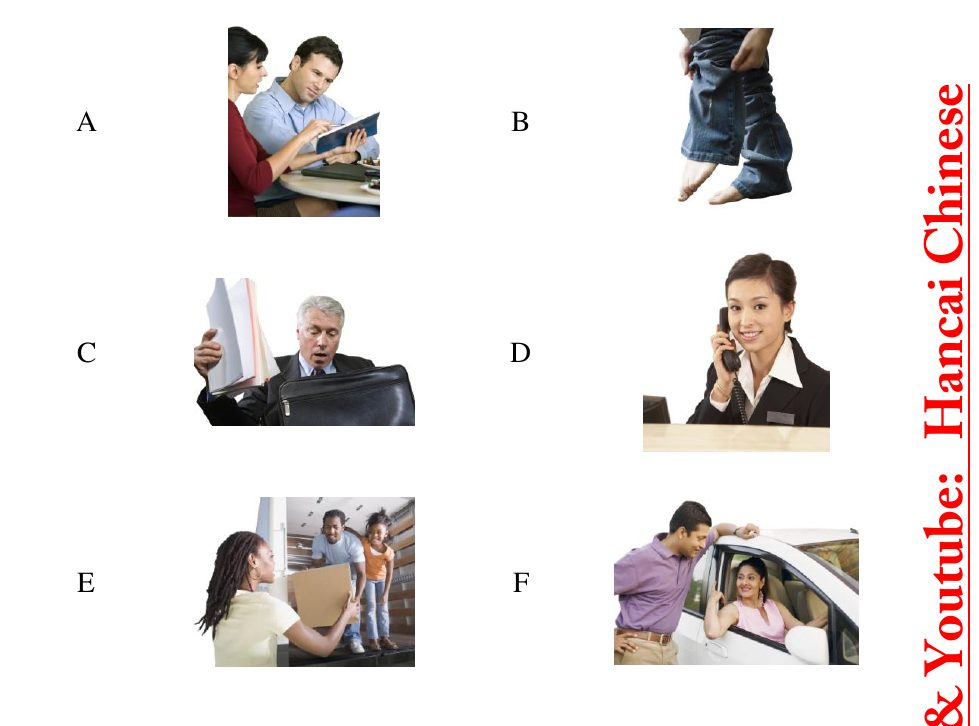
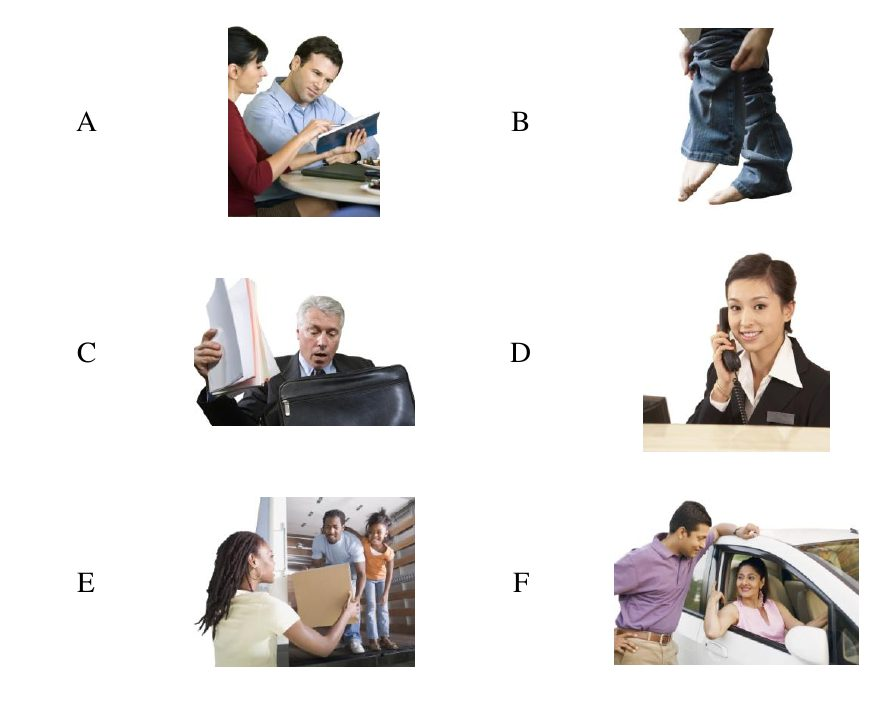
Clip source watermark from HSK3 picture groups

diff --git a/tools/listening/paper.py b/tools/listening/paper.py
@@ -13,6 +13,7 @@ from pathlib import Path
 PART_NAMES = {'第一部分': 1, '第二部分': 2, '第三部分': 3, '第四部分': 4}
 FOOTER = re.compile(r'^\s*H3\d{4}\s*-\s*\d+\s*$')
 WATERMARK = re.compile(r'\s*Facebook\s*&\s*Youtube:\s*Hancai\s*Chinese\s*')
+WATERMARK_WORDS = {'Facebook', 'Youtube:', 'Hancai', 'Chinese'}
 ITEM_START = re.compile(r'^\s*(\d{1,2})\s*．\s*(.*)$')
 SPEAKER = re.compile(r'^(男|女|问)：\s*(.*)$')
 # 대본 안에서 문항이 아닌 줄들. 이 줄이 나오면 진행 중인 문항이 끝난다.
@@ -118,6 +119,15 @@ def page_words(pdf):
     return pages
 
 
+def picture_right(words):
+    """오른쪽 세로 워터마크가 있으면 글씨 앞의 흰 여백에서 크롭을 끝낸다."""
+    watermark_x = [
+        word['x0'] for word in words
+        if word['text'] in WATERMARK_WORDS and word['x0'] > 480
+    ]
+    return min(540, min(watermark_x) - 6) if watermark_x else 540
+
+
 def crop_picture_groups(pdf, test_id, public_dir):
     """1부분 '第 1-5 题', '第 6-10 题' 아래의 사진 묶음을 잘라 jpg로 저장한다."""
     groups = []
@@ -134,7 +144,7 @@ def crop_picture_groups(pdf, test_id, public_dir):
             name = f'{test_id}-p1-{len(groups) + 1}.jpg'
             dpi = 150
             scale = dpi / 72
-            x0, x1 = 70, 540
+            x0, x1 = 70, picture_right(words)
             subprocess.run([
                 'pdftoppm', '-jpeg', '-jpegopt', 'quality=82', '-r', str(dpi), '-f', str(page_no), '-l', str(page_no),
                 '-x', str(int(x0 * scale)), '-y', str(int(top * scale)),

diff --git a/tools/listening/test_paper.py b/tools/listening/test_paper.py
@@ -1,0 +1,20 @@
+import unittest
+
+from paper import picture_right
+
+
+class PictureCropTest(unittest.TestCase):
+    def test_clips_before_right_side_watermark(self):
+        words = [
+            {'text': 'A', 'x0': 90},
+            {'text': 'Hancai', 'x0': 506.1},
+            {'text': 'Chinese', 'x0': 506.1},
+        ]
+        self.assertAlmostEqual(picture_right(words), 500.1)
+
+    def test_keeps_original_right_edge_without_watermark(self):
+        self.assertEqual(picture_right([{'text': 'A', 'x0': 90}]), 540)
+
+
+if __name__ == '__main__':
+    unittest.main()
